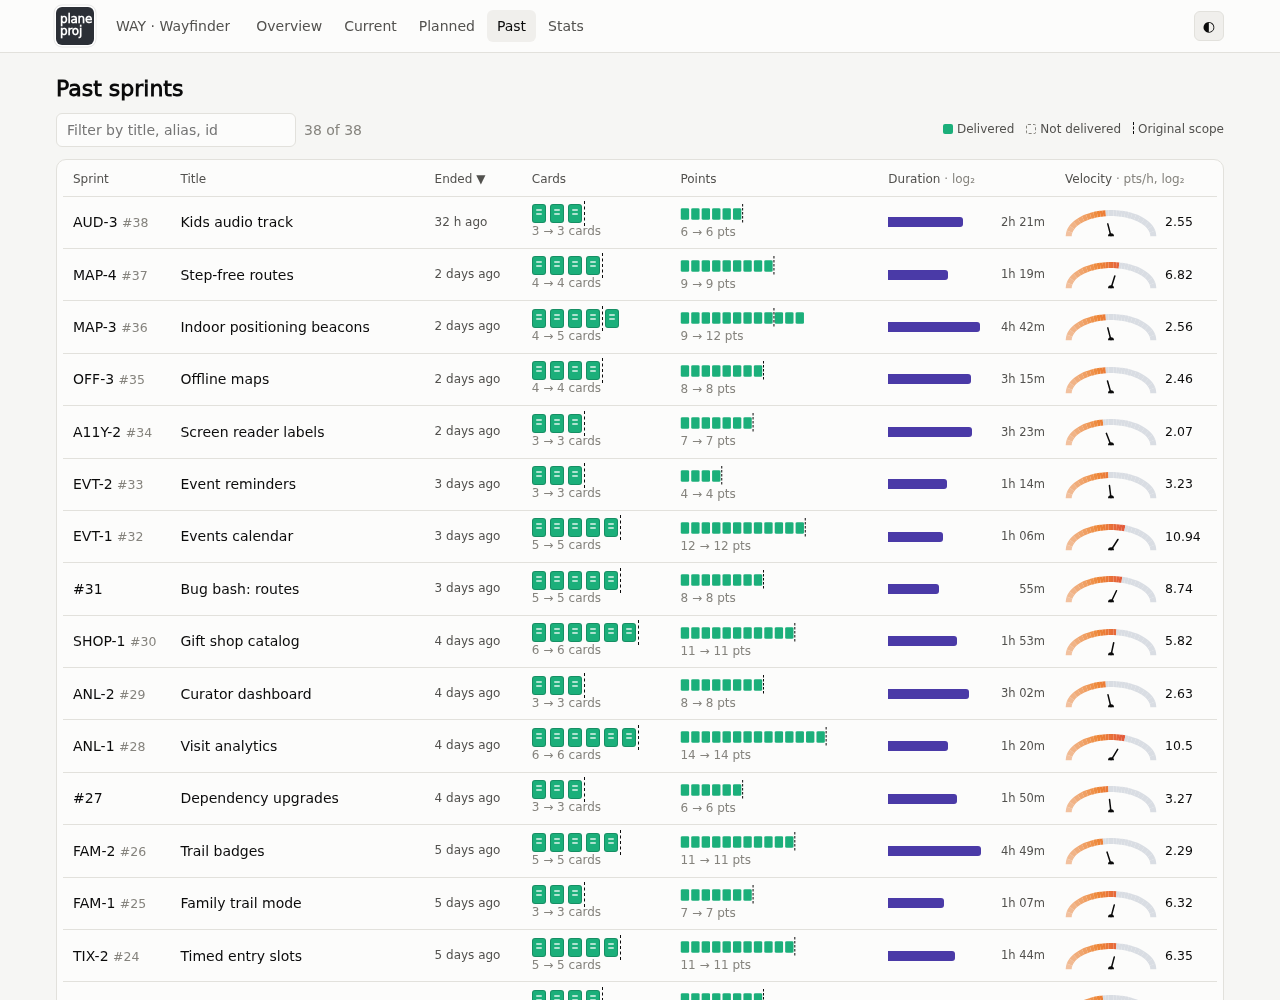
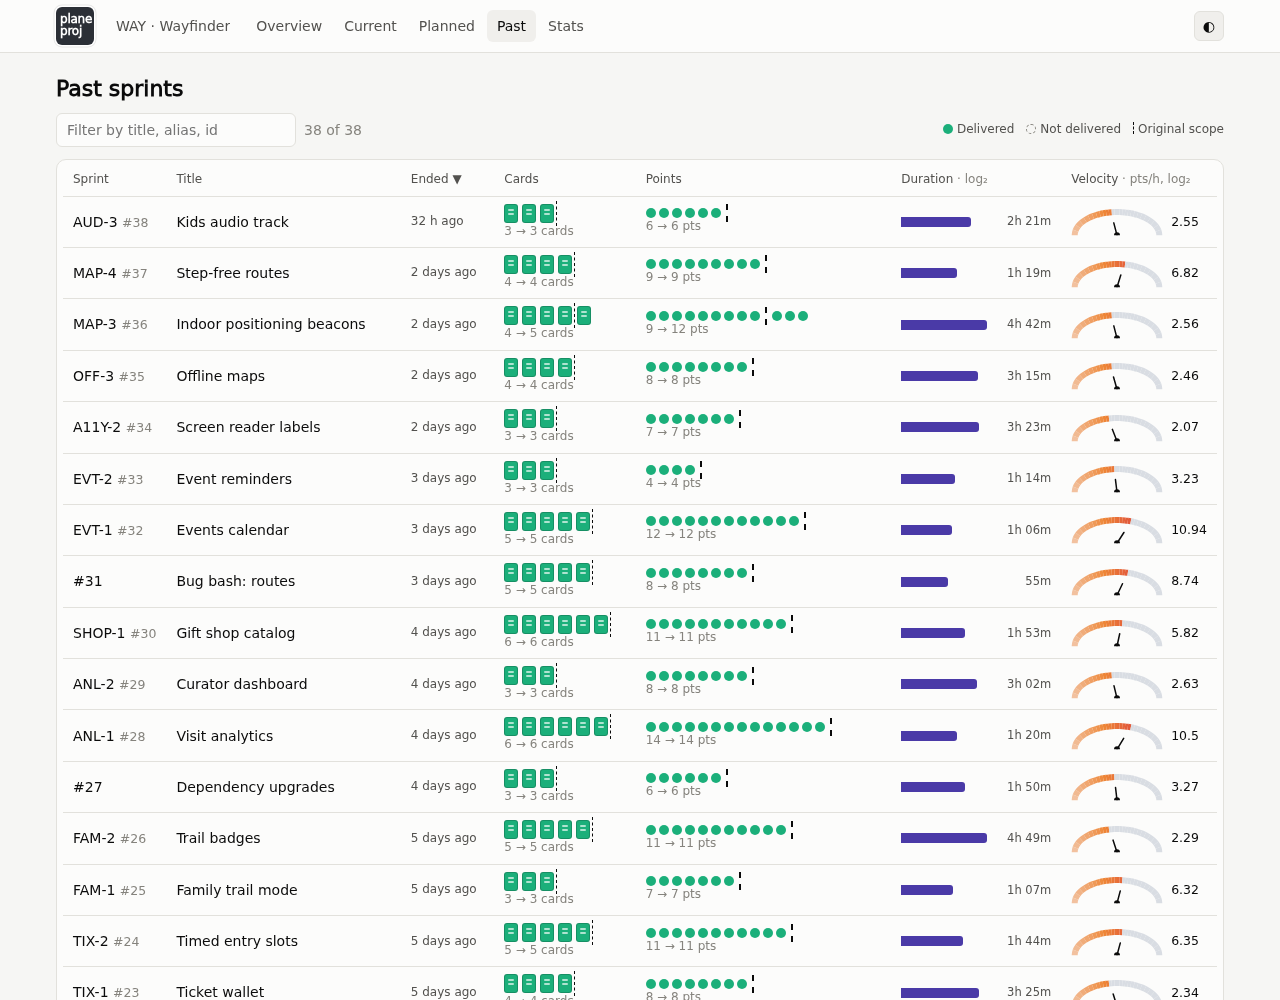
feat(web): points are dots everywhere; Stats stacks dots and cards
Points were drawn three ways: solid segments, thin segment strips and
smooth bars. Every point is now one dot, never wider than 10 px:

- Current and Overview: dots in their state colours with the dashed
  "start N" marker; a sprint's row ends where its points end. Points
  removed since the start show as hollow dots.
- Past table, past sprint and Overview's last sprint: green dots for
  delivered points, hollow dashed dots for points not delivered, and a
  dashed line at the original scope.
- Planned queue and planned sprint: outlined dots. The queue gains a
  Points column to the right of Cards, as in Past.
- Stats: points per sprint are stacked dots and cards per sprint are
  stacked card icons, each with a dashed tick at the original scope.

Bars no longer draw a grey track, so a duration or estimate does not
read as an unfinished progress bar. The queue's Estimate column is now
"Estimated completion time".

Verification: pytest, ruff check, rumdl check pass. Checked in the
demo: Overview, both Current sprints, Planned, Past, a past sprint and
Stats; gallery screenshots refreshed from it.

Claude-Session: https://claude.ai/code/session_01FgdVYP9r5FsBvYhXWxvHnT

diff --git a/src/plane_proj/web.html b/src/plane_proj/web.html
@@ -126,21 +126,22 @@ tbody tr.link { cursor: pointer; } tbody tr.link:hover { background: var(--surfa
 .scroll { overflow-x: auto; }
 /* bars */
 .hb { display: flex; align-items: center; gap: 8px; min-width: 120px; }
-.hb .track { flex: 1; height: 10px; position: relative; background: var(--surface-2); border-radius: 0 3px 3px 0; }
+/* No track: these bars compare sizes; none of them is progress toward a total. */
+.hb .track { flex: 1; height: 10px; position: relative; }
 .hb .fill { position: absolute; left: 0; top: 0; bottom: 0; border-radius: 0 3px 3px 0; }
 .hb .lbl { font-size: 11.5px; color: var(--text-2); white-space: nowrap; min-width: 52px; text-align: right; font-variant-numeric: tabular-nums; }
-.seg { display: block; width: 100%; height: 12px; }
-.seg rect.o { fill: var(--scope-o); } .seg rect.r { fill: none; stroke: var(--muted); stroke-dasharray: 1.5 1; stroke-width: .6; }
 /* state bar with embedded numbers */
 .sbar { display: flex; align-items: center; gap: 10px; }
-.sbar .segs { flex: 1; display: flex; gap: 2px; height: 26px; position: relative; }
-.sbar .segs span { display: flex; align-items: center; justify-content: center; color: #fff; font-weight: 650; font-size: 12.5px; border-radius: 3px; min-width: 18px; }
-.sbar .segs span.light { color: #0b0b0b; }
 .sbar .tot { font-weight: 650; font-size: 18px; white-space: nowrap; }
-.sbar .start { position: absolute; top: -6px; bottom: -6px; border-left: 2px dashed var(--text); }
+/* Points as dots: one dot per point, never wider than 10 px. */
+.dots { display: flex; flex-wrap: wrap; gap: 3px; align-items: center; min-width: 0; }
+.dot { width: 10px; height: 10px; border-radius: 50%; flex: none; }
+.dot.hollow { border: 1px dashed var(--muted); }
+.dot.ring { border: 1.5px solid var(--scope-o); }
 .cstart { position: relative; align-self: stretch; margin: -6px 1px; border-left: 2px dashed var(--text); }
 .cstart b { position: absolute; top: -16px; left: 3px; font-size: 11px; font-weight: 600; white-space: nowrap; color: var(--text-2); }
-.sbar .start b { position: absolute; top: -16px; left: 3px; font-size: 11px; font-weight: 600; white-space: nowrap; color: var(--text-2); }
+.pmark { align-self: stretch; width: 0; margin: -4px 2px; border-left: 2px dashed var(--text); position: relative; }
+.pmark b { position: absolute; top: -17px; left: 3px; font-size: 11px; font-weight: 600; white-space: nowrap; color: var(--text-2); }
 /* card icons */
 .cicons { display: flex; gap: 4px; flex-wrap: wrap; align-items: center; }
 .ci { width: 14px; height: 19px; border-radius: 3px; border: 1px solid rgba(0,0,0,.18); position: relative; }
@@ -274,7 +275,7 @@ const cardsFor = s => DATA.cards[s.sprint] || [];
 const sk = (width, height, style = '') => `<span class="sk" style="width:${width};height:${height}px;${style}"></span>`;
 const skInline = (width, height = 12) => `<span class="sk inline" style="width:${width};height:${height}px"></span>`;
 const skIcons = (n, big) => `<div class="cicons">${`<span class="ci sk${big ? ' big' : ''}"></span>`.repeat(Math.max(n || 0, 1))}</div>`;
-const skStateBar = () => `<div class="sbar"><div class="segs">${sk('100%', 26)}</div><span class="tot">${skInline('52px', 20)}</span></div>`;
+const skStateBar = () => `<div class="sbar">${sk('60%', 10)}<span class="sp"></span><span class="tot">${skInline('52px', 20)}</span></div>`;
 // Open blockers of a card, shown only while the card itself is unfinished.
 function waitsOn(c) {
   const open = (c.blocked_by || []).filter(b => !TERMINAL.has(b.state));
@@ -324,38 +325,26 @@ function hbar(v, max, text, color = 'var(--scope-o)', { log = false, lo = 0.25, 
   if (v != null && v > 0) pct = log ? Math.log2(Math.max(v, lo) / lo) / Math.log2(max / lo) : v / max;
   return `<div class="hb" ${tipText ? `data-tip="${esc(tipText)}"` : ''}><div class="track"><div class="fill" style="width:${Math.max(pct * 100, v ? 1 : 0)}%;background:${color}"></div></div><span class="lbl">${text}</span></div>`;
 }
-// One segment per point: original (start, kept), added (end > start), removed (end < start, hollow).
-function segbar(start, end, scaleMax, unit = 'pts', cls = '') {
-  start = start || 0; end = end ?? start;
-  const kept = Math.min(start, end), added = Math.max(0, end - start), removed = Math.max(0, start - end);
-  let x = 0, r = '';
-  const put = (n, cls) => { for (let i = 0; i < n; i++, x++) r += `<rect class="${cls}" x="${x * 4 + .3}" y=".3" width="3.2" height="11.4" rx=".6"/>`; };
-  put(kept, 'o'); put(added, 'a'); put(removed, 'r');
-  return `<svg class="seg ${cls}" viewBox="0 0 ${scaleMax * 4} 12" preserveAspectRatio="none" data-tip="${esc(`${start} → ${end} ${unit}` + (added ? ` (+${added} added)` : '') + (removed ? ` (−${removed} removed)` : ''))}">${r}</svg>`;
-}
-// Delivered against the original scope: one green segment per delivered
-// point, a hollow one per point not delivered, a dashed line at the start.
+// Points not yet worked on: one outlined dot per point.
+const ringDots = (n, unit = 'pts') => `<div class="dots" data-tip="${n} ${unit}">${'<span class="dot ring"></span>'.repeat(n || 0)}</div>`;
+// Delivered against the original scope: one green dot per delivered point,
+// a hollow one per point not delivered, a dashed line after the start.
 function outcome(start, end, scaleMax, unit = 'pts') {
   start = start || 0; end = end ?? start;
-  let r = '';
-  for (let i = 0; i < Math.max(start, end); i++) r += i < end
-    ? `<rect x="${i * 4 + .3}" y="4.3" width="3.2" height="11.4" rx=".6"
-        fill="var(--st-done)"/>`
-    : `<rect x="${i * 4 + .6}" y="4.6" width="2.6" height="10.8" rx=".6"
-        fill="none" stroke="var(--muted)" stroke-width=".6"
-        stroke-dasharray="1.2 .9"/>`;
   const tipT = `${start} → ${end} ${unit}`
     + (end < start ? ` (${start - end} not delivered)` : '')
     + (end > start ? ` (+${end - start} added)` : '');
-  return `<svg class="seg" style="height:20px"
-    viewBox="0 0 ${Math.max(scaleMax, 1) * 4} 20" preserveAspectRatio="none"
-    data-tip="${esc(tipT)}">${r}<line x1="${start * 4}" x2="${start * 4}"
-    y1="0" y2="20" stroke="var(--text)" stroke-width="1"
-    stroke-dasharray="2.5 1.5" vector-effect="non-scaling-stroke"/></svg>`;
+  let r = '';
+  for (let i = 0; i < Math.max(start, end); i++) {
+    if (i === start) r += '<span class="pmark"></span>';
+    r += `<span class="dot ${i < end ? '' : 'hollow'}"${i < end ? ' style="background:var(--st-done)"' : ''}></span>`;
+  }
+  if (start >= end) r += '<span class="pmark"></span>';
+  return `<div class="dots" data-tip="${esc(tipT)}">${r}</div>`;
 }
 const segLegend = `<div class="legend">
-  <span><i style="background:var(--st-done)"></i>Delivered</span>
-  <span><i class="hollow"></i>Not delivered</span>
+  <span><i style="background:var(--st-done);border-radius:50%"></i>Delivered</span>
+  <span><i class="hollow" style="border-radius:50%"></i>Not delivered</span>
   <span><i style="background:none;width:0;height:12px;border-left:1px dashed
     var(--text);border-radius:0"></i>Original scope</span></div>`;
 // Velocity heat on the dial's log scale, 0.25–64 pts/h: yellow when slow,
@@ -444,15 +433,21 @@ function cardRow(start, end) {
 }
 const cardIcons = (colors, big) => `<div class="cicons">${colors.map(c => c === 'plain' ? `<span class="ci plain ${big ? 'big' : ''}"></span>` : `<span class="ci ${big ? 'big' : ''} ${c === stC.Verifying ? 'v' : ''}" style="background:${c}"></span>`).join('')}</div>`;
 
-// Points by state with numbers inside, total outside, dashed start marker.
+// Points by state, one dot per point, total outside, dashed start marker.
+// Points removed since the start show as hollow dots up to it.
 function stateBar(cards, start, unit, tipText = '') {
   const val = c => unit === 'pts' ? c.points : 1;
-  const tot = cards.reduce((a, c) => a + val(c), 0), scale = Math.max(tot, start);
-  const segs = PROGRESS.map(st => [st, cards.filter(c => c.state === st).reduce((a, c) => a + val(c), 0)]).filter(x => x[1]);
-  return `<div class="sbar"><div class="segs">${segs.map(([st, n]) =>
-    `<span class="${st === 'Cancelled' || st === 'Verifying' ? 'light' : ''}" style="width:${n / scale * 100}%;background:${stC[st]}" data-tip="${st}: ${n} ${unit}">${n}</span>`).join('')}
-    ${tot < scale ? `<span style="flex:1;background:none;border:1px dashed var(--muted)"></span>` : ''}
-    <div class="start" style="left:calc(${start / scale * 100}% - 1px)" ${tipText ? `data-tip="${esc(tipText)}"` : ''}><b>start ${start}</b></div></div>
+  const tot = cards.reduce((a, c) => a + val(c), 0);
+  const marker = `<span class="pmark" ${tipText ? `data-tip="${esc(tipText)}"` : ''}><b>start ${start}</b></span>`;
+  let r = '', n = 0;
+  const put = (html, count) => { for (let i = 0; i < count; i++, n++) { if (n === start) r += marker; r += html; } };
+  PROGRESS.forEach(st => {
+    const k = cards.filter(c => c.state === st).reduce((a, c) => a + val(c), 0);
+    put(`<span class="dot" style="background:${stC[st]}" data-tip="${st}: ${k} ${unit}"></span>`, k);
+  });
+  put('<span class="dot hollow" data-tip="Removed since the start"></span>', Math.max(0, start - tot));
+  if (n === start) r += marker;
+  return `<div class="sbar"><div class="dots">${r}</div><span class="sp"></span>
     <span class="tot">${tot} <span class="muted small">${unit}</span></span></div>`;
 }
 // Every state, always: the legend needs no data, so it is the same loading or loaded.
@@ -488,6 +483,46 @@ function colChart({ data, stacks, w = 1100, h = 220, fmt = v => num(v), log = fa
   const leg = stacks.length > 1 ? `<div class="legend" style="margin-bottom:6px">${stacks.map(s => `<span><i ${s.hollow ? 'class="hollow"' : `style="background:${s.color}"`}></i>${s.label}</span>`).join('')}${mark ? `<span><i style="background:none;
     width:12px;height:0;border-top:1px dashed var(--text);border-radius:0;
     vertical-align:3px"></i>${markLabel}</span>` : ''}</div>` : '';
+  return leg + `<svg class="chart" viewBox="0 0 ${w} ${h}">${out}</svg>`;
+}
+// Counts per sprint as stacked units: a dot per point or a card icon per
+// card, green when delivered and hollow when not, with a dashed tick at the
+// original scope. Units shrink only when many sprints or a tall stack would
+// not fit.
+function stackChart({ data, start, end, kind, tipFn, w = 1100, h = 220 }) {
+  if (!data.length) return '<p class="muted">No sprints to chart.</p>';
+  h += 26;
+  const pad = { l: 46, r: 12, t: 12, b: 52 }, iw = w - pad.l - pad.r, ih = h - pad.t - pad.b;
+  const top = Math.max(1, ...data.map(d => Math.max(start(d), end(d))));
+  const bw = iw / data.length, card = kind === 'cards';
+  const unit = Math.min(card ? 16 : 10, ih / top, card ? bw * 1.1 : bw * .9);
+  const ys = k => pad.t + ih - k * unit;
+  const step = Math.max(1, niceStep(top));
+  let out = '';
+  for (let v = 0; v <= top; v += step) out += `<line class="gl" x1="${pad.l}" x2="${w - pad.r}" y1="${ys(v)}" y2="${ys(v)}"/><text x="${pad.l - 6}" y="${ys(v) + 4}" text-anchor="end">${v}</text>`;
+  data.forEach((d, i) => {
+    const cx = pad.l + (i + .5) * bw, s0 = start(d), e0 = end(d);
+    for (let k = 0; k < Math.max(s0, e0); k++) {
+      const y = ys(k + 1), on = k < e0;
+      if (card) {
+        const cw = unit * .75, ch = unit * .88, x = cx - cw / 2;
+        out += on ? `<rect x="${x}" y="${y + unit * .06}" width="${cw}" height="${ch}" rx="2" fill="var(--st-done)"/>`
+            + [.3, .55].map(f => `<line x1="${x + cw * .25}" x2="${x + cw * .75}" y1="${y + unit * f}" y2="${y + unit * f}" stroke="rgba(255,255,255,.7)" stroke-width="1.2"/>`).join('')
+          : `<rect x="${x + .5}" y="${y + unit * .06 + .5}" width="${cw - 1}" height="${ch - 1}" rx="2" fill="none" stroke="var(--muted)" stroke-dasharray="2 1.5"/>`;
+      } else {
+        const r = unit * .4, cy = y + unit / 2;
+        out += on ? `<circle cx="${cx}" cy="${cy}" r="${r}" fill="var(--st-done)"/>`
+          : `<circle cx="${cx}" cy="${cy}" r="${r - .4}" fill="none" stroke="var(--muted)" stroke-dasharray="1.5 1.2"/>`;
+      }
+    }
+    const half = (card ? unit * .75 : unit * .8) / 2 + 3;
+    out += `<line x1="${cx - half}" x2="${cx + half}" y1="${ys(s0)}" y2="${ys(s0)}" stroke="var(--text)" stroke-dasharray="2 1.5"/>`;
+    out += `<text transform="translate(${cx + 3} ${pad.t + ih + 4}) rotate(-90)" text-anchor="end" style="font-size:${Math.min(10, bw * .8)}px">${d.sprint}</text>`;
+    out += `<rect x="${pad.l + i * bw}" y="${pad.t}" width="${bw}" height="${ih + 26}" fill="transparent" style="cursor:pointer" ${goto(d.sprint)} data-tip="${esc(tipFn(d))}"/>`;
+  });
+  out += `<text x="${pad.l}" y="${h - 7}">${esc(ago(data[0].started))}</text><text x="${w - pad.r}" y="${h - 7}" text-anchor="end">${esc(ago(data[data.length - 1].started))}</text>`;
+  const shape = card ? 'border-radius:2px' : '';
+  const leg = `<div class="legend" style="margin-bottom:6px"><span><i style="background:var(--st-done);${shape}"></i>Delivered</span><span><i class="hollow" style="${shape}"></i>Not delivered</span><span><i style="background:none;width:12px;height:0;border-top:1px dashed var(--text);border-radius:0;vertical-align:3px"></i>Original scope</span></div>`;
   return leg + `<svg class="chart" viewBox="0 0 ${w} ${h}">${out}</svg>`;
 }
 const tipHead = d => `<b>${esc(d.alias || '#' + d.sprint)}</b> ${esc(d.title)}<br>`;
@@ -816,6 +851,7 @@ V.planned = () => {
     <td>${sk('90px', 16)}</td>
     <td>${sk('70%', 14)}</td>
     <td class="hide-sm">${skIcons(4)}</td>
+    ${POINTS ? `<td class="hide-sm">${sk('70px', 10)}</td>` : ''}
     <td class="hide-sm">${sk('100px', 14)}</td>
   </tr>`).join('') : queue.map(s => `
   <tr class="link" ${goto(s.sprint_id)}>
@@ -830,6 +866,7 @@ V.planned = () => {
       <div class="cicons">${cardIconsHtml(s.cards_count, s.undeclared)}</div>
       <div class="small muted" style="margin-top:3px">${s.cards_count} card${s.cards_count === 1 ? '' : 's'}</div>
     </td>
+    ${POINTS ? `<td class="hide-sm">${ringDots(s.points)}<div class="small muted" style="margin-top:3px">${s.points} pts</div></td>` : ''}
     <td class="hide-sm" style="min-width:150px">
       ${hbar(s.hours, maxHours, fmtH(s.hours), 'var(--slate-2)')}
     </td>
@@ -866,7 +903,8 @@ V.planned = () => {
   <span class="state notready">Not ready</span><span>waits on unfinished cards in another sprint</span></span></span></th>
     <th>Why</th>
     <th class="hide-sm">Cards</th>
-    <th class="hide-sm">Estimate</th>
+    ${POINTS ? '<th class="hide-sm">Points</th>' : ''}
+    <th class="hide-sm">Estimated completion time</th>
   </tr></thead>
   <tbody>${rowsHtml}</tbody>
   </table></div>
@@ -878,7 +916,7 @@ V.plannedDetail = s => `<p><a href="#/planned">← Planned</a></p>
   <div class="row">${label(s)}<span class="pill">planned · position ${s.position}</span>${planeLink(s)}</div>
   <h1 style="margin-top:6px">${esc(s.title)}</h1><p class="goal">${esc(s.goal)}</p>
   <div class="card" style="margin-top:16px"><div class="row">${s.cards == null ? skIcons(4, true) : `${cardIcons(Array(s.cards).fill('plain'), true)}<span class="t2">${s.cards} cards</span>`}</div>
-    ${POINTS ? `<div style="margin:12px 0 4px;max-width:${s.points * 14}px">${segbar(s.points, s.points, Math.max(1, s.points))}</div><span class="t2">${s.points} pts${MEDV ? ` · ≈ ${fmtH(s.points / MEDV)} at ${num(MEDV, 2)} pts/h` : ''}</span>` : ''}</div>
+    ${POINTS ? `<div style="margin:12px 0 4px;max-width:${s.points * 14}px">${ringDots(s.points)}</div><span class="t2">${s.points} pts${MEDV ? ` · ≈ ${fmtH(s.points / MEDV)} at ${num(MEDV, 2)} pts/h` : ''}</span>` : ''}</div>
   <h2>Execution guidance</h2><div class="card prose">${esc(s.execution) || '—'}</div>
   <h2>Acceptance</h2><div class="card prose">${esc(s.acceptance)}</div>`;
 
@@ -1016,15 +1054,9 @@ V.stats = () => {
     ${reasonsCard(T.rework.reasons)}</div>
   </div>
   <h2>Per sprint, oldest to newest</h2>
-  ${POINTS ? `  <div class="card"><h3>Points: delivered against the original scope</h3>${colChart({ data: past, stacks: [
-      { label: 'Delivered', color: 'var(--st-done)', get: d => d.points_end },
-      { label: 'Not delivered', hollow: true, get: d => Math.max(0, d.points_start - d.points_end) }],
-    mark: d => d.points_start, markLabel: 'Original scope',
+  ${POINTS ? `  <div class="card"><h3>Points: delivered against the original scope</h3>${stackChart({ data: past, start: d => d.points_start, end: d => d.points_end, kind: 'points',
     tipFn: d => tipHead(d) + `${d.points} pts · cards ${d.cards}` })}</div>
-` : ''}  <div class="card" style="margin-top:12px"><h3>Cards: delivered against the original scope</h3>${colChart({ data: past, stacks: [
-      { label: 'Delivered', color: 'var(--st-done)', get: d => d.cards_end },
-      { label: 'Not delivered', hollow: true, get: d => Math.max(0, d.cards_start - d.cards_end) }],
-    mark: d => d.cards_start, markLabel: 'Original scope',
+` : ''}  <div class="card" style="margin-top:12px"><h3>Cards: delivered against the original scope</h3>${stackChart({ data: past, start: d => d.cards_start, end: d => d.cards_end, kind: 'cards',
     tipFn: d => tipHead(d) + `${d.cards} cards${POINTS ? ` · ${d.points} pts` : ''}` })}</div>
   ${POINTS ? `  <div class="card" style="margin-top:12px"><h3>Velocity <span class="muted small">(pts/h, log₂ scale)</span></h3>${heatLegend}${colChart({ data: past, log: true, fmt: v => num(v, 2),
     stacks: [{ label: 'pts/h', color: d => heatV(d.velocity), get: d => d.velocity }], ref: MEDV, refLabel: `median ${num(MEDV, 2)}`, tipFn: d => tipHead(d) + `${num(d.velocity, 2)} pts/h` })}</div>` : ''}
